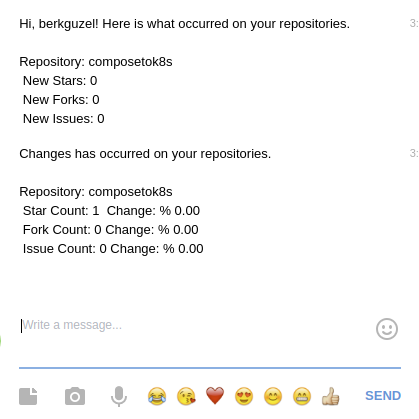
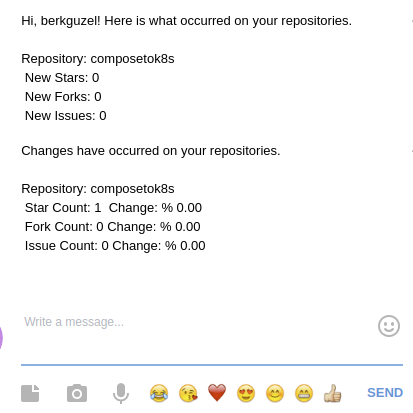
message bug fixed, demo updated

diff --git a/cmd/run.go b/cmd/run.go
@@ -11,8 +11,6 @@ import (
 
 var (
 	name string
-	message string
-	messageTotal string
 	star int
 	fork int
 	issue int
@@ -62,7 +60,8 @@ func RunPeroidically(sizeOfRepos int, arrayofRepos []string) []*github.Repositor
 
 // Diff() make comparison between InitialRepoistory and ObserverRepository and sends message
 func Diff(i []*github.Repository, o []*github.Repository ){
-
+	
+	var message string
 	arg, _ := github.ParseArgs()
 	bot, err := tgbotapi.NewBotAPI(arg["tgBotToken"])
 	if err != nil {
@@ -93,6 +92,7 @@ func Diff(i []*github.Repository, o []*github.Repository ){
 // SendPercentage() sends a new message about change rate 
 func SendPercentage(i []*github.Repository, o []*github.Repository)string{
 
+	var messageTotal string
 	for r , v := range o {
 		name = v.Name
 		fork = v.ForksCount
@@ -103,7 +103,7 @@ func SendPercentage(i []*github.Repository, o []*github.Repository)string{
 		issuePerc = ReturnPercentage(i[r].OpenIssuesCount, v.OpenIssuesCount )
 		messageTotal = messageTotal + "\n" + fmt.Sprintf("Repository: %s \n Star Count: %d  Change: %s %.2f \n Fork Count: %d Change: %s %.2f \n Issue Count: %d Change: %s %.2f \n", name, star, "%", starPerc, fork, "%", forkPerc, issue,"%", issuePerc )
 	}
-	messageTotal = fmt.Sprintf("Changes has occurred on your repositories. \n %s ", messageTotal)
+	messageTotal = fmt.Sprintf("Changes have occurred on your repositories. \n %s ", messageTotal)
 	
 	return messageTotal
 }

diff --git a/cmd/main.go b/cmd/main.go
@@ -26,4 +26,5 @@ func main() {
 		initialRepo = RunOnce(sizeOfRepos, arrayofRepos)
 	
 	}
+	
 }
